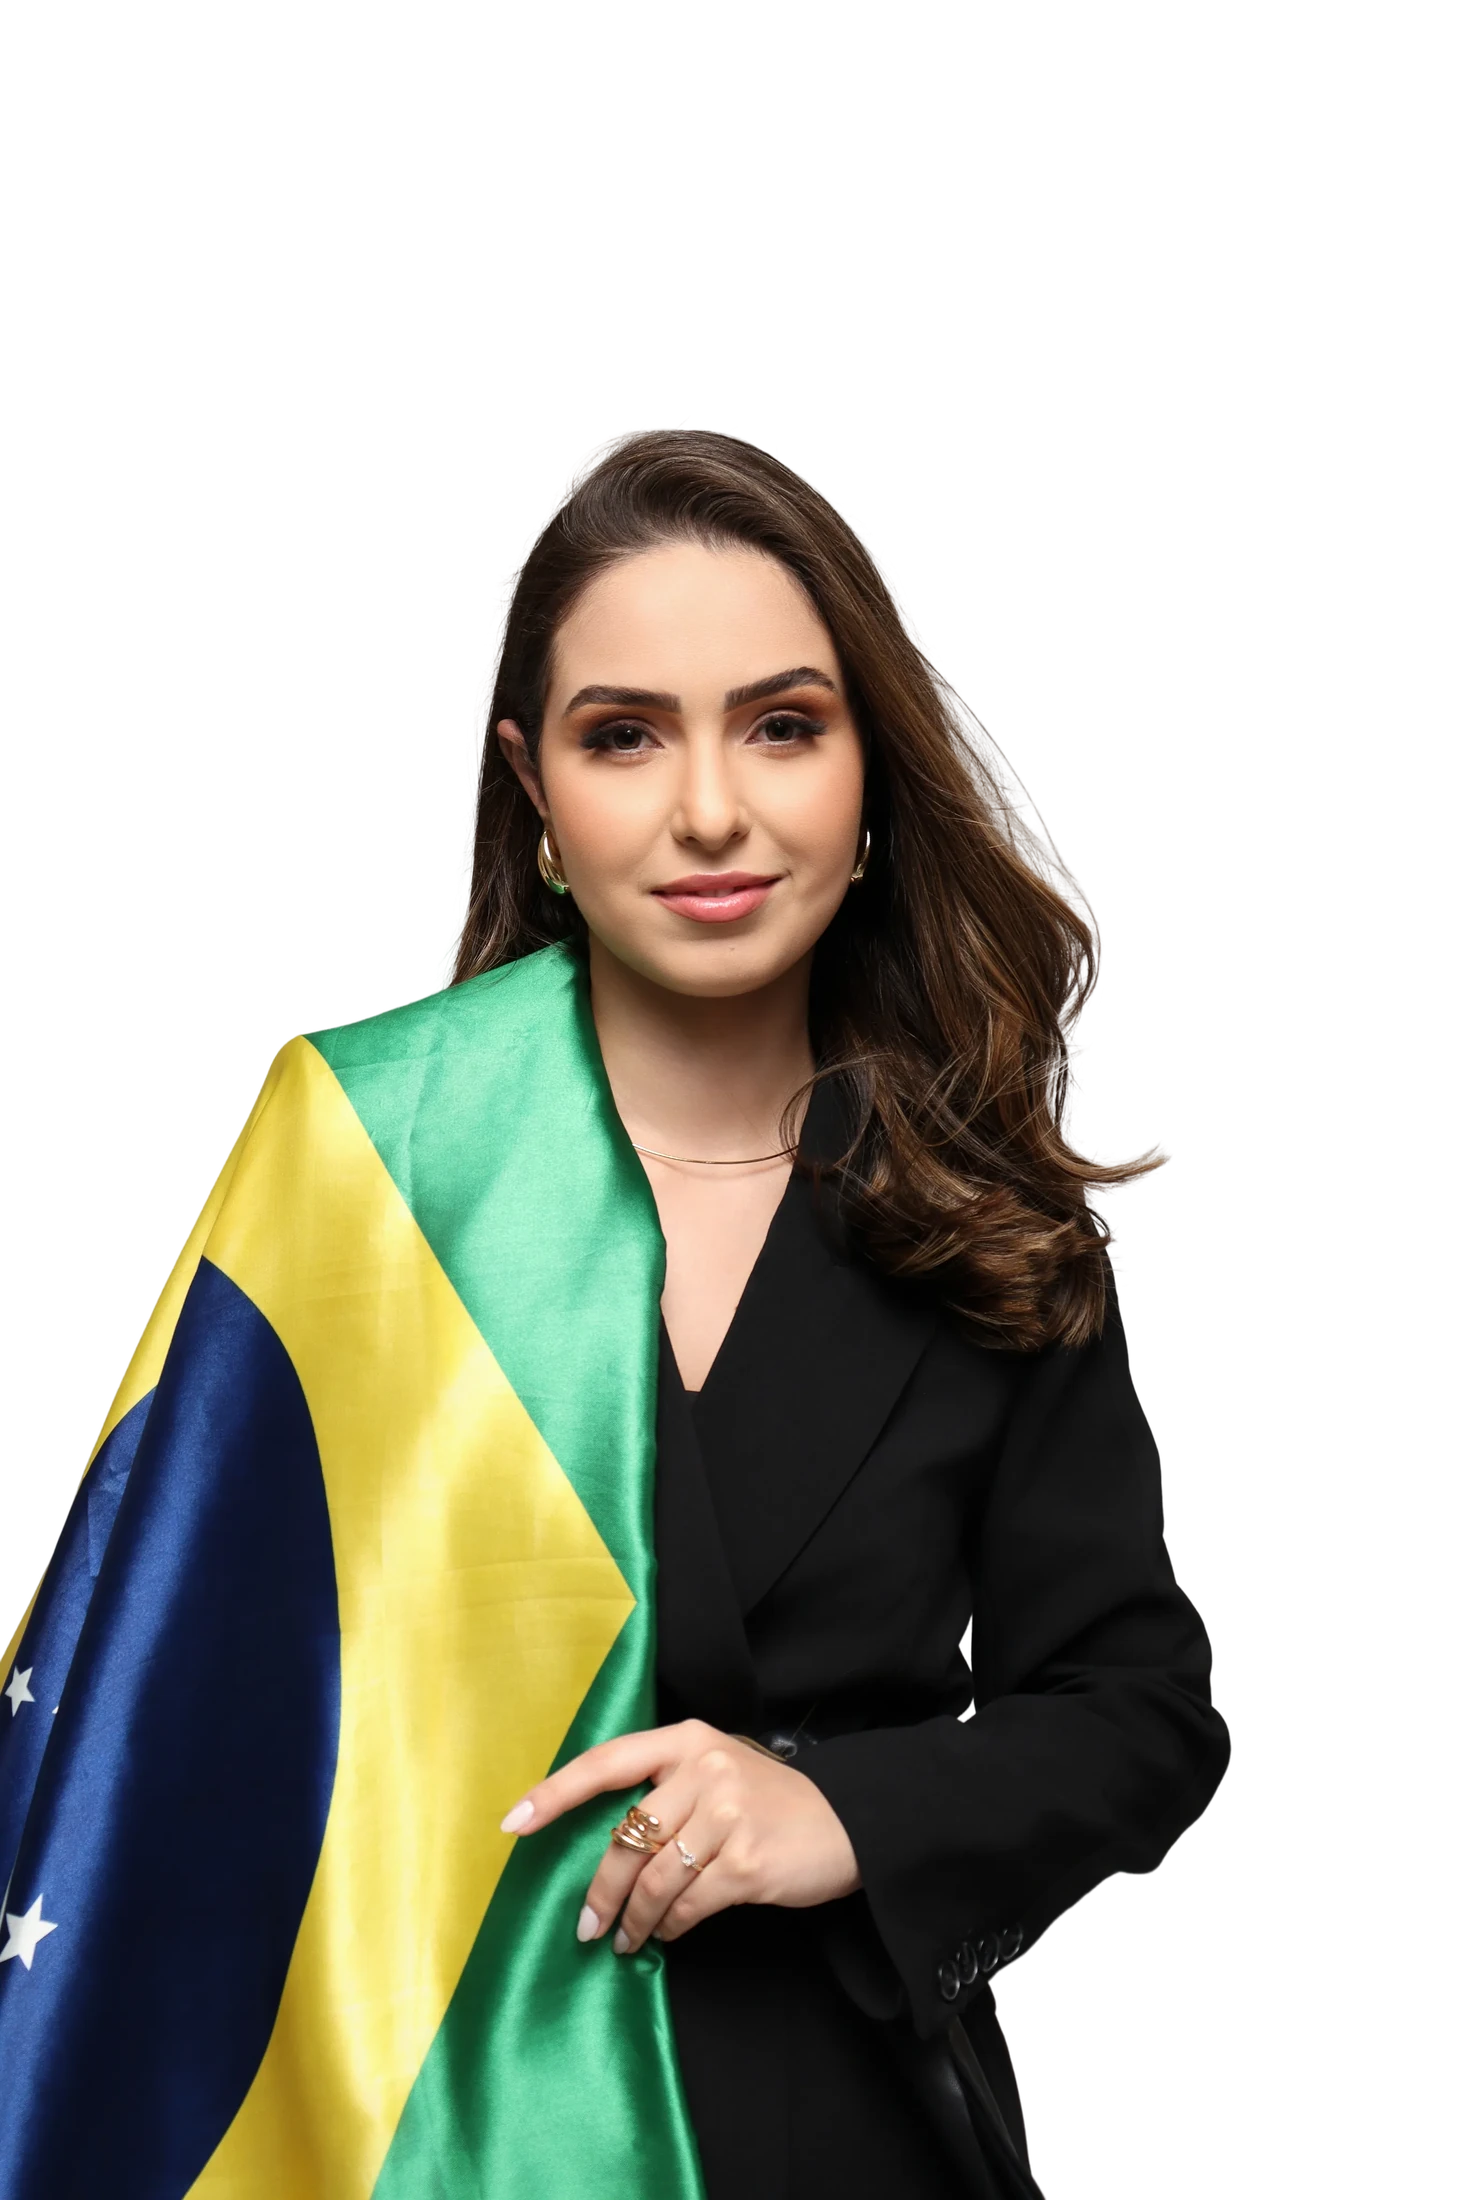
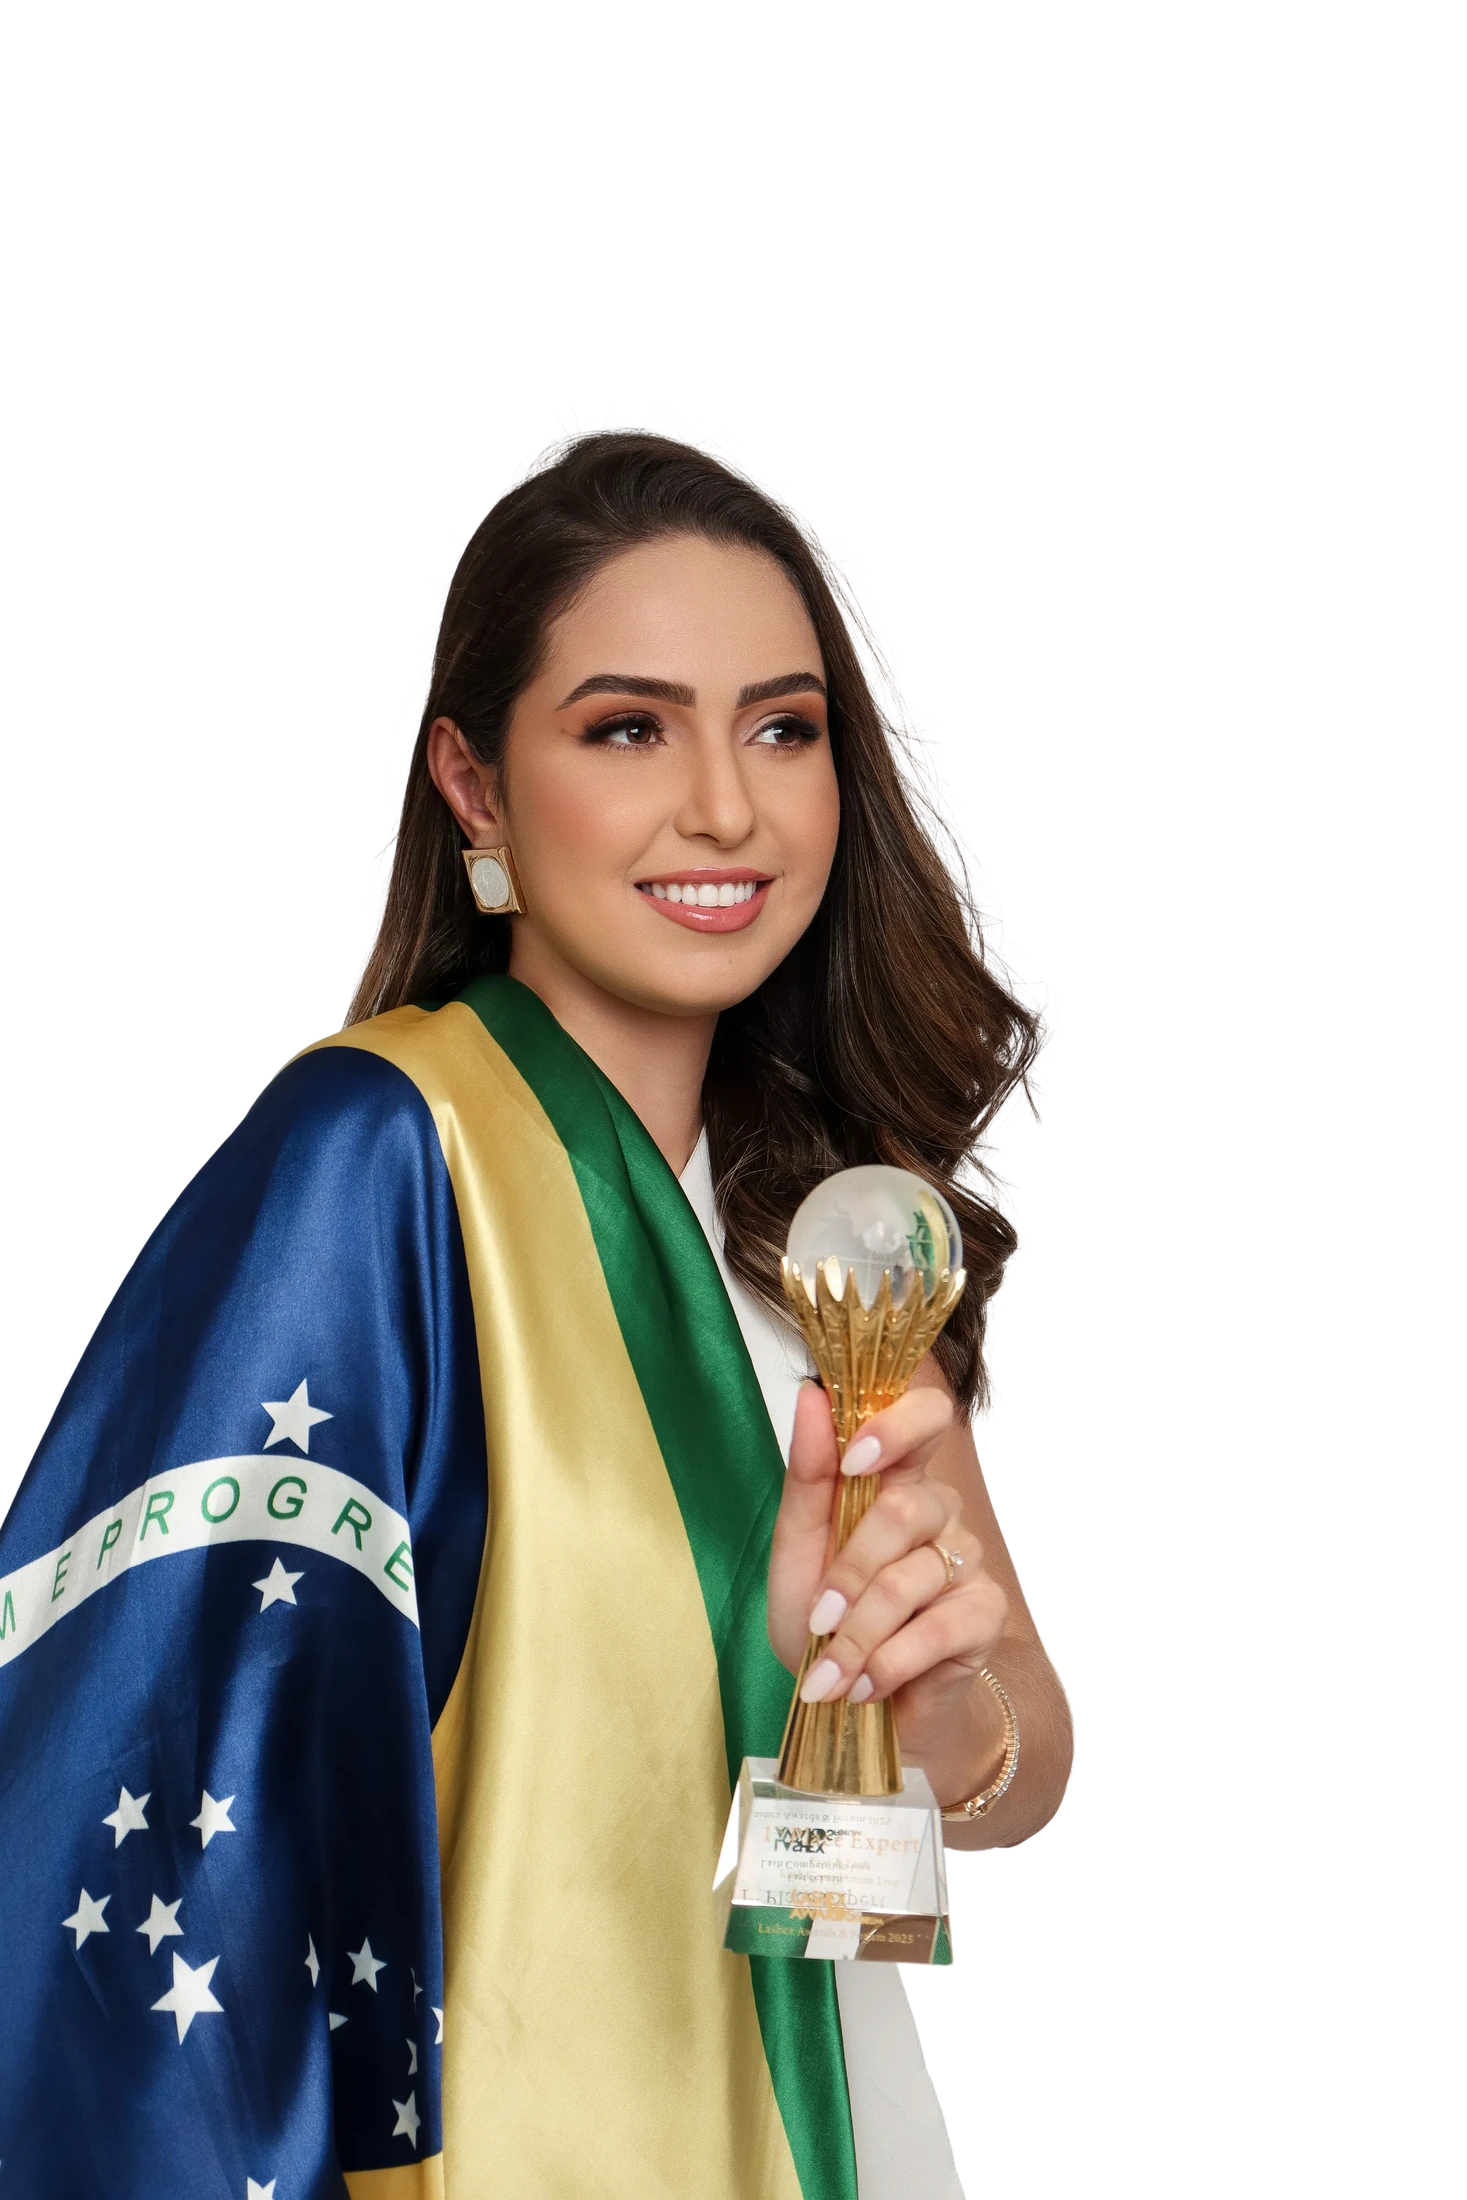
Fix transformation frame and footer layout

diff --git a/styles.css b/styles.css
@@ -34,11 +34,10 @@
 .about__copy h2{margin:0 0 25px;font-size:52px;line-height:1.08}
 .about__copy p:not(.section-kicker){width:556px;margin-bottom:16px;line-height:1.625}
 
-.transformation{height:756px;background:#492f20}
-.transformation:after{background:linear-gradient(90deg,rgba(35,24,19,.55),rgba(92,60,43,.08))}
-.transformation__texture{position:absolute;inset:-432px auto auto -50px;width:184.3%;height:2359px;max-width:none;object-fit:cover;opacity:.18;filter:blur(6.65px);mix-blend-mode:luminosity}
-.transformation .transformation__maria{position:absolute;z-index:1;left:11.5%;top:-159px;bottom:auto;width:667px;height:998px;max-width:none;object-fit:fill;filter:drop-shadow(-26px 20px 36px rgba(0,0,0,.2))}
-.transformation__copy{top:205px;left:45.25%;width:630px}
+.transformation{height:756px;background:linear-gradient(90deg,#2e201b 0%,#4a3023 37%,#5d3c2b 100%)}
+.transformation:after{background:radial-gradient(circle at 30% 43%,rgba(209,197,192,.09),transparent 37%)}
+.transformation .transformation__maria{position:absolute;z-index:1;left:11.5%;top:16px;bottom:auto;width:610px;height:917px;max-width:none;object-fit:fill;filter:drop-shadow(-26px 20px 36px rgba(0,0,0,.2))}
+.transformation__copy{top:205px;left:45.25%;width:660px}
 .transformation__copy p:first-child{margin-bottom:26px;color:#d1c5c0;font-size:12px;font-weight:500;letter-spacing:3px;text-transform:uppercase}
 .transformation__copy p:last-child{margin:0;font-family:"Playfair Display",Georgia,serif;font-size:39px;font-weight:500;line-height:1.27}
 .transformation__copy em{color:#eadbd0;font-style:italic}
@@ -69,11 +68,11 @@
 
 footer{min-height:360px;padding:64px 0 0;background:#4b2c1c}
 footer .wrap{width:min(1404px,calc(100% - 64px))}
-.footer__grid{grid-template-columns:1.05fr 1.05fr 1fr;gap:72px}
+.footer__grid{grid-template-columns:341px 341px 341px;column-gap:72px}
 .footer__logo{width:136px;height:auto;margin:0 0 10px}
 .footer__grid p,.footer__grid a{margin:0 0 7px;color:rgba(209,197,192,.8);font-size:15px;line-height:1.38}
 .footer__grid h3{margin-bottom:20px;font-size:12px;letter-spacing:4px}
-.footer__bottom{margin-top:55px;padding-top:26px;font-size:12px}
+footer .footer__bottom{width:1200px;margin-top:55px;margin-left:max(32px,calc((100% - 1404px)/2));margin-right:auto;padding-top:26px;font-size:12px}
 
 @media(max-width:900px){
   .hero__content{padding-top:108px}.hero__maria{left:49%;top:42px;width:540px;height:810px}.hero__logo{width:190px;height:auto}.hero h1{width:52vw;font-size:40px}.hero__content>p:not(.eyebrow){width:50vw;font-size:19px}.hero .eyebrow{width:48%;white-space:normal}.hero .button{min-width:0}
@@ -81,6 +80,7 @@ footer .wrap{width:min(1404px,calc(100% - 64px))}
   .transformation .transformation__maria{left:-6%;top:-10px;width:520px;height:auto}.transformation__copy{left:43%;width:54%}.transformation__copy p:last-child{font-size:34px}
   .feedback__wrap{width:min(760px,calc(100% - 32px))}.feedback__grid{grid-template-columns:28.5% 32.2% 35.5%;width:100%;gap:35px 1.1%;grid-template-rows:auto auto}.feedback__grid figure:nth-child(-n+3){width:100%;height:auto;aspect-ratio:var(--feedback-ratio,1/1.82)}.feedback__grid figure:nth-child(1){--feedback-ratio:279.225/570.968}.feedback__grid figure:nth-child(2){--feedback-ratio:315.258/570.968}.feedback__grid figure:nth-child(3){--feedback-ratio:348.077/570.968}.feedback__grid figure:nth-child(n+4){width:100%}.feedback__grid figure:nth-child(4),.feedback__grid figure:nth-child(5){height:auto;aspect-ratio:1.56}.feedback__grid figure:nth-child(6){height:auto;aspect-ratio:2.25}
   .closing__inner{width:calc(100% - 64px)}.closing__copy{left:0}.closing__art{left:38%}.closing__art .closing__maria{left:0}
+  .footer__grid{grid-template-columns:1.2fr 1fr 1fr;gap:36px}footer .footer__bottom{width:calc(100% - 64px);margin-inline:auto}
 }
 
 @media(max-width:640px){
@@ -89,5 +89,5 @@ footer .wrap{width:min(1404px,calc(100% - 64px))}
   .transformation{height:690px}.transformation .transformation__maria{left:-35%;top:110px;width:470px}.transformation__copy{top:72px;left:32%;width:64%;padding-right:10px}.transformation__copy p:first-child{font-size:10px;letter-spacing:2px}.transformation__copy p:last-child{font-size:27px}
   .feedback{min-height:0;padding:55px 0 70px}.feedback h2{font-size:29px;line-height:1.3}.feedback__wrap>p{font-size:15px}.feedback__grid{gap:8px 1.2%;margin-top:45px}.feedback__grid figure:nth-child(6){align-self:end}
   .closing{height:675px}.closing__inner{width:calc(100% - 40px)}.closing__copy{top:56px;width:300px}.closing__logo{width:140px}.closing__copy h2{font-size:49px}.closing__copy .button{min-width:0}.closing__art{left:20%;top:205px}.closing__art .vertical-wordmark{left:10%;top:-90px;width:250px}.closing__art .closing__maria{left:0;top:-100px;width:470px;height:auto}
-  footer{padding:55px 0 34px}.footer__grid{grid-template-columns:1fr;gap:30px}.footer__bottom{flex-direction:column;gap:8px;margin-top:42px}.footer__logo{width:125px}
+  footer{padding:55px 0 34px}.footer__grid{grid-template-columns:1fr;gap:30px}footer .footer__bottom{width:calc(100% - 64px);margin-inline:auto;margin-top:42px;flex-direction:column;gap:8px}.footer__logo{width:125px}
 }

diff --git a/index.html b/index.html
@@ -8,7 +8,7 @@
     <link rel="preconnect" href="https://fonts.googleapis.com" />
     <link rel="preconnect" href="https://fonts.gstatic.com" crossorigin />
     <link href="https://fonts.googleapis.com/css2?family=Jost:wght@400;500;600&amp;family=Playfair+Display:ital,wght@0,500;1,500&amp;family=Poppins:ital,wght@0,300;0,400;0,500;0,600;0,700;1,300;1,600&amp;display=swap" rel="stylesheet" />
-    <link rel="stylesheet" href="styles.css" />
+    <link rel="stylesheet" href="styles.css?v=20260826-3" />
   </head>
   <body>
     <main>
@@ -52,7 +52,6 @@
       </section>
 
       <section class="transformation">
-        <img class="transformation__texture" src="assets/transformation-texture.webp" alt="" aria-hidden="true" />
         <img class="transformation__maria" src="assets/transformation-maria.webp" alt="Maria Lisboa com faixa de campeã" />
         <div class="transformation__copy"><p>Essa não é apenas uma mentoria sobre técnicas…</p><p>É uma transformação completa na sua forma de enxergar a extensão de cílios, os campeonatos e, principalmente, o seu próprio potencial e se tornar uma profissional com <em>mentalidade de campeã!</em></p></div>
       </section>
